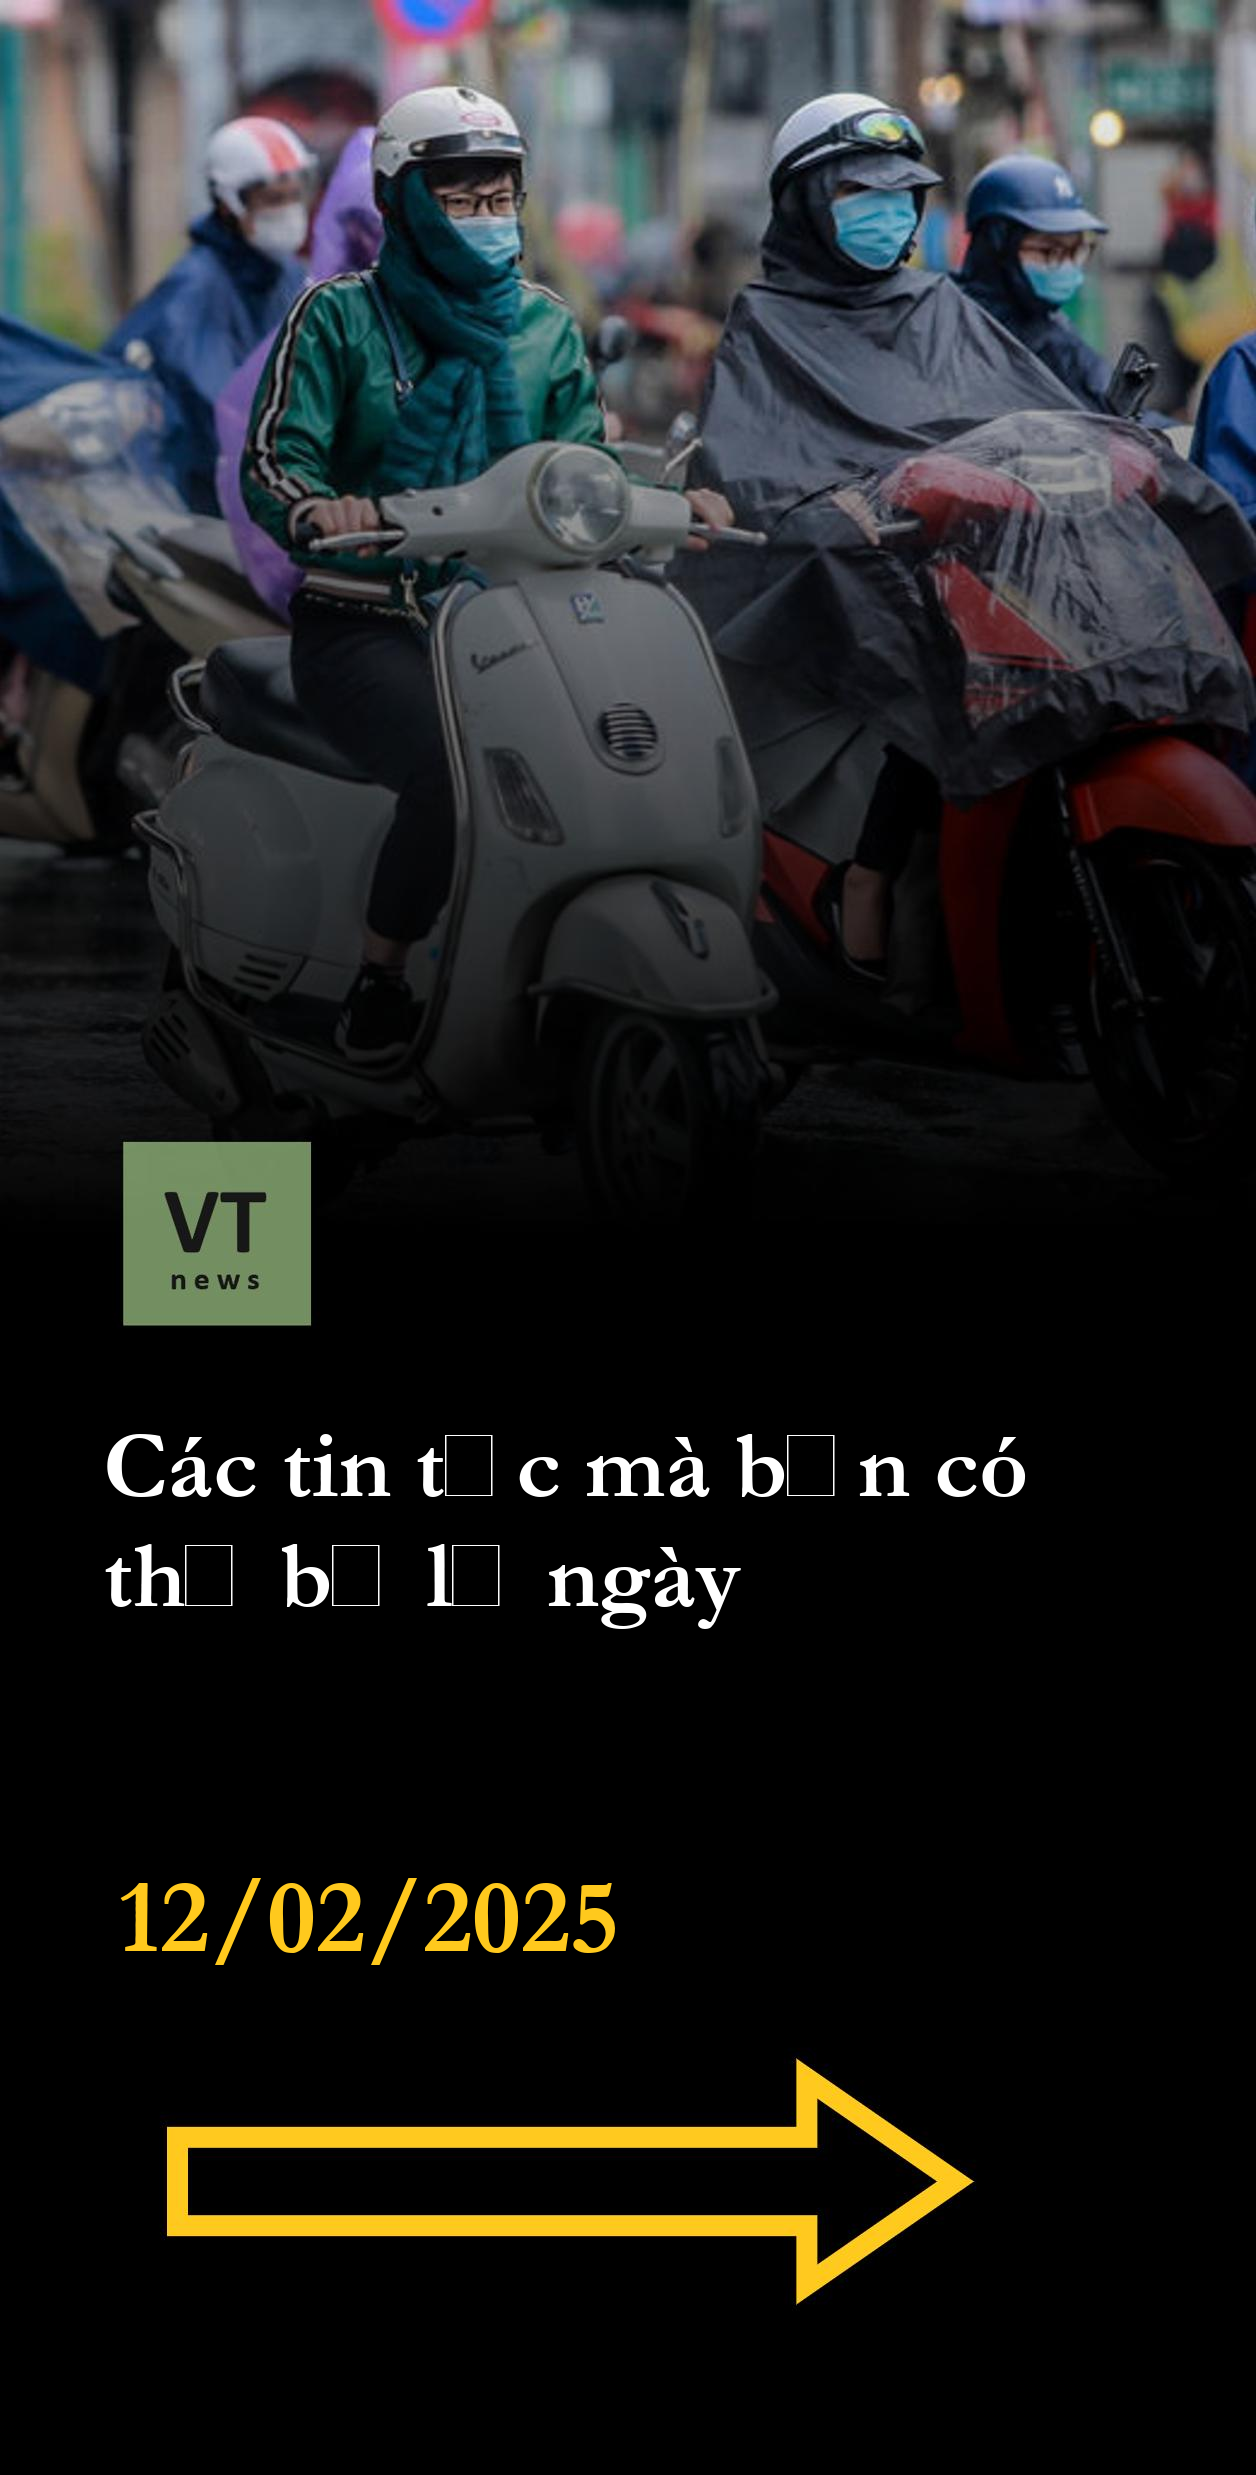
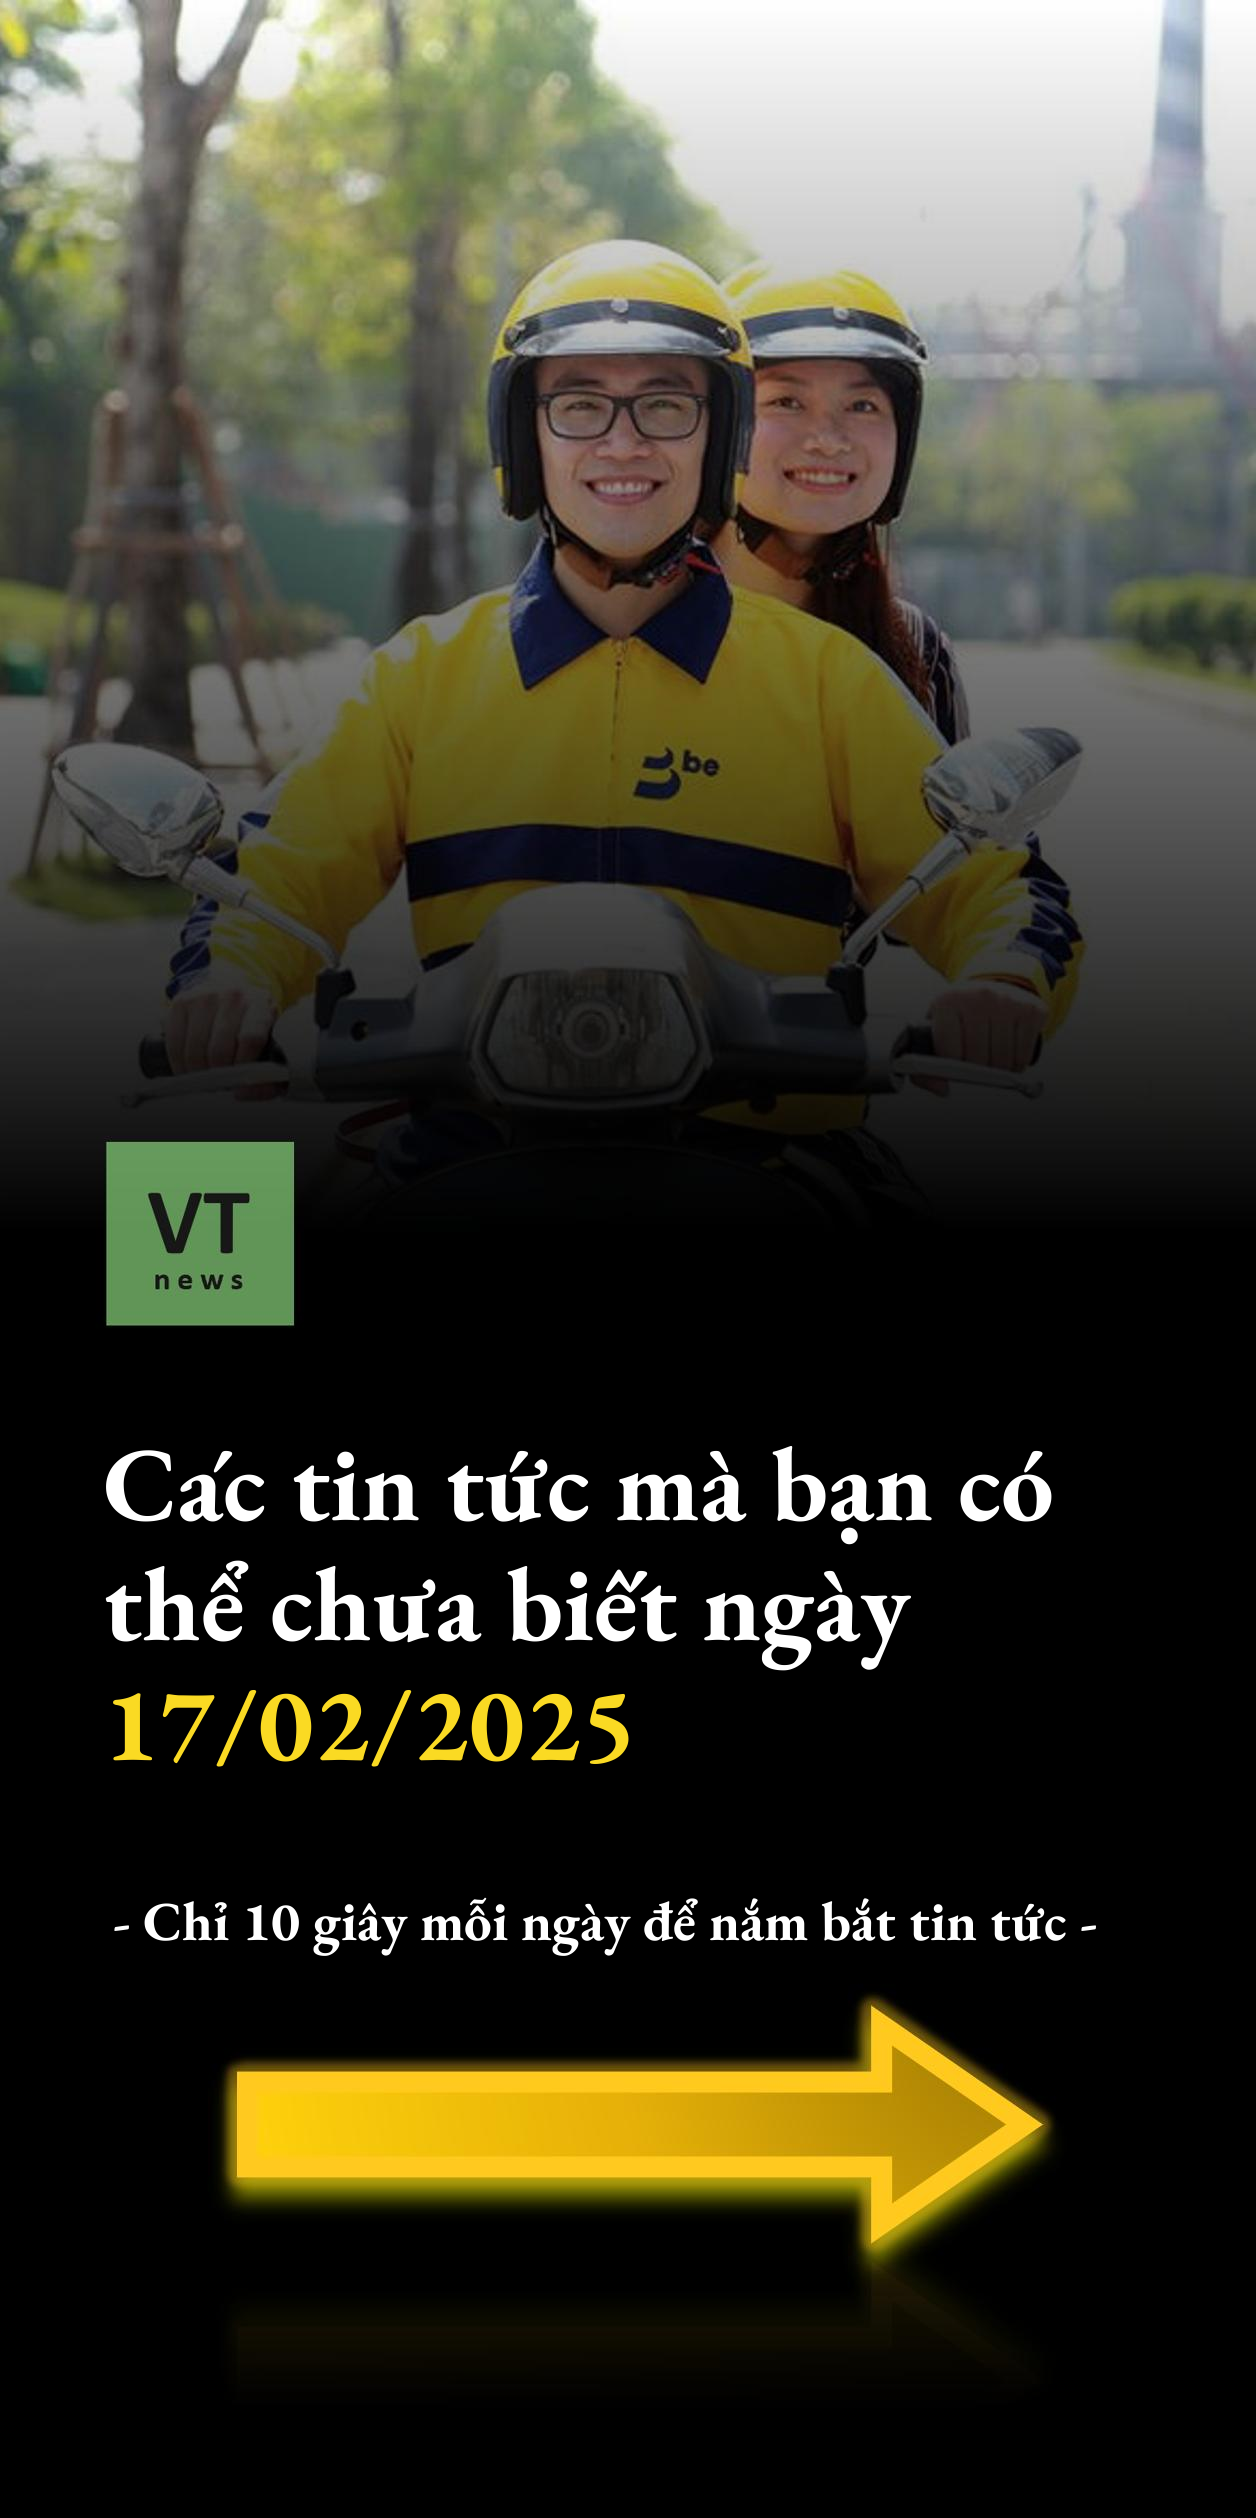
new content

diff --git a/main.py b/main.py
@@ -88,10 +88,10 @@ def add_text_to_image(image_path, output_path, text, text_position=(50, 50),
             brace_end = text.find("}", brace_start)
             if brace_end == -1:
                 # Nếu không có dấu }, coi toàn bộ phần còn lại là cụm từ
-                parts.append((text[brace_start:], "#FFC91D"))
+                parts.append((text[brace_start:], "#fada23"))
                 break
             # Thêm cụm từ trong {}
-            parts.append((text[brace_start + 1:brace_end], "#FFC91D"))
+            parts.append((text[brace_start + 1:brace_end], "#fada23"))
             start = brace_end + 1
 
         # Xử lý từng phần
@@ -150,7 +150,7 @@ try:
             # Lấy text được format từ AI
             if i == 0:
                 time = datetime.now().strftime("%d/%m/%Y")
-                formatted_text = f"{original_text}              {{{time}}}"
+                formatted_text = f"{original_text}       {{{time}}}"
             else:
                 formatted_text = get_ai_formatted_text(original_text)
             
@@ -190,6 +190,20 @@ try:
                 max_width=1100,
                 line_spacing=15
             )
+
+            if i == 0:
+                text_image = add_text_to_image(
+                    merged_image, 
+                    filename, 
+                    text="- Chỉ 10 giây mỗi ngày để nắm bắt tin tức -",
+                    text_position=(113, 1884),
+                    text_color="white",
+                    font_path="./EBGaramond-Bold.ttf",
+                    font_size=55,
+                    max_width=1100,
+                    line_spacing=15
+               )
+
             if not text_image:
                 print(f"Bỏ qua ảnh {i} do lỗi viết text.")
                 continue
